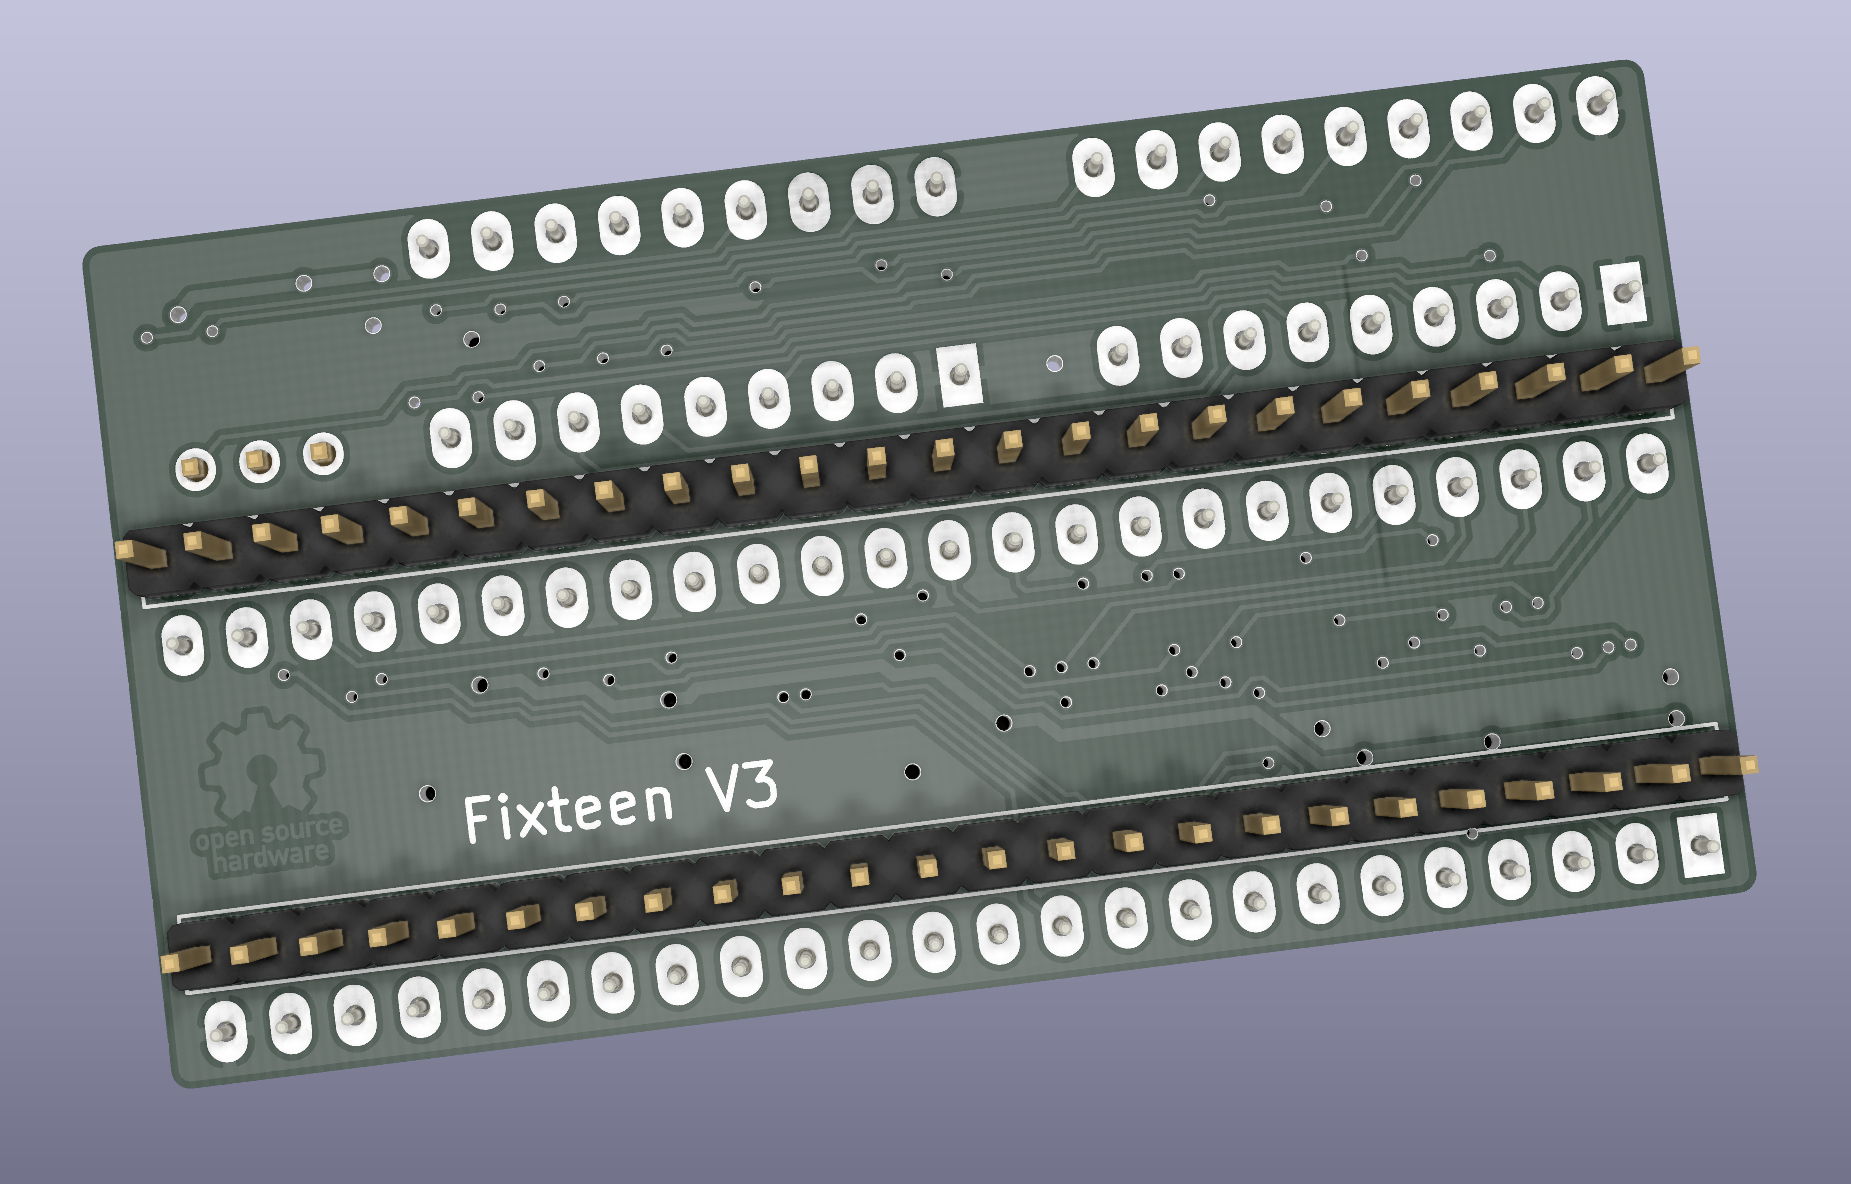
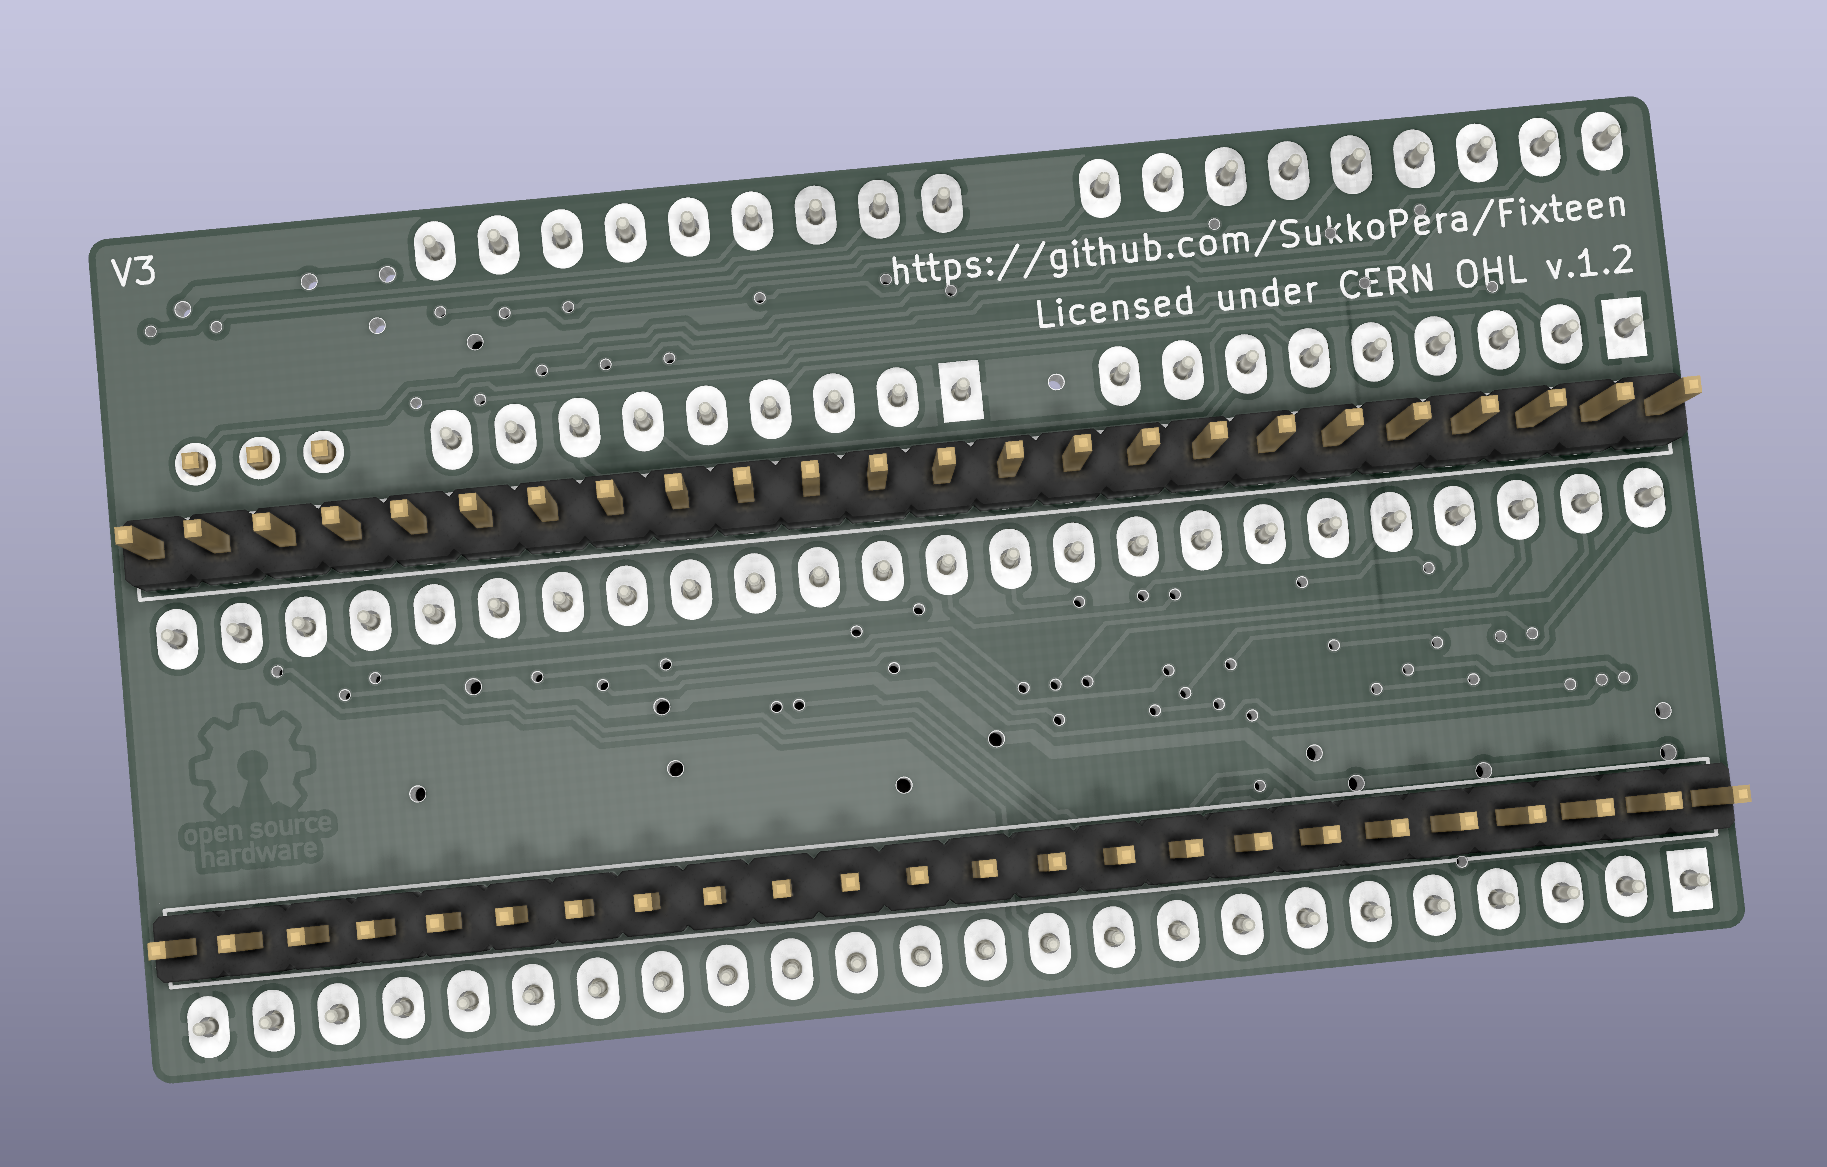
Add license statement, project URL and version number

diff --git a/README.md b/README.md
@@ -31,7 +31,7 @@ If you want to get this board produced, you are recommended to get [the latest r
 Every release is accompanied by its Bill Of Materials (BOM) file and any relevant notes about it, which you are recommended to read carefully.
 
 ## License
-The Fixteen documentation, including the design itself, is copyright &copy; SukkoPera 2023 and is licensed under the [CERN OHL v. 1.2](http://ohwr.org/cernohl).
+The Fixteen documentation, including the design itself, is copyright &copy; SukkoPera 2023 and is licensed under the [CERN OHL v. 1.2](https://ohwr.org/project/cernohl/wikis/Documents/CERN-OHL-version-1.2).
 
 This documentation is distributed *as is* and WITHOUT ANY EXPRESS OR IMPLIED WARRANTIES whatsoever with respect to its functionality, operability or use, including, without limitation, any implied warranties OF MERCHANTABILITY, SATISFACTORY QUALITY, FITNESS FOR A PARTICULAR PURPOSE or infringement. We expressly disclaim any liability whatsoever for any direct, indirect, consequential, incidental or special damages, including, without limitation, lost revenues, lost profits, losses resulting from business interruption or loss of data, regardless of the form of action or legal theory under which the liability may be asserted, even if advised of the possibility or likelihood of such damages.
 
